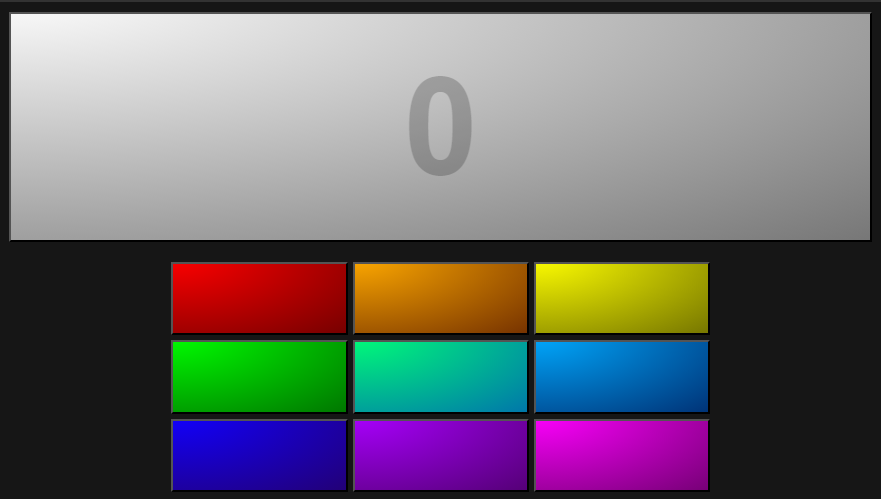
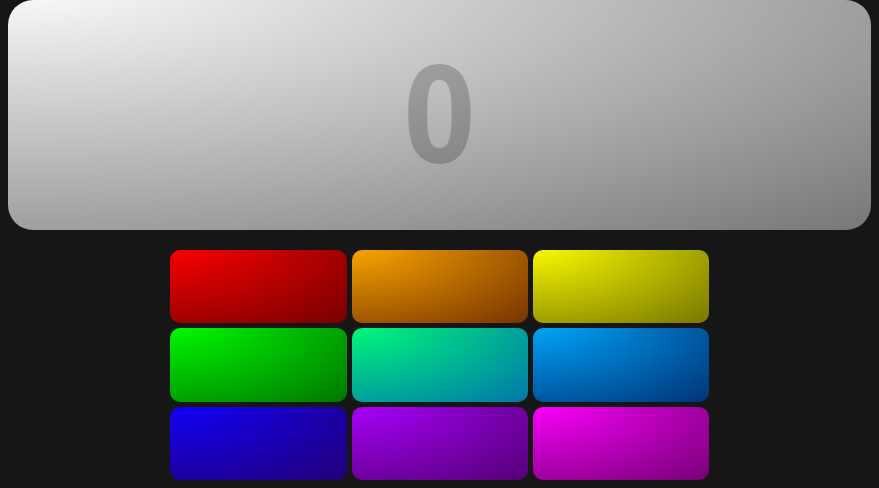
mejorar portada valsimon dice (otra foto + ahora muestra tus records)

diff --git a/main.js b/main.js
@@ -3,10 +3,20 @@ async function loadMain(){
     if(getCookie('darkMode')=='true'){document.getElementById('darkMode').checked = true}
     else{document.getElementById('darkMode').checked = false}
     refreshDarkMode()
-    flipSvg('infoSvg',-90);
 
+    //dar la vuelta al svg de info
+    flipSvg('infoSvg',-90);
+    
+    
+    //poner records
+    document.getElementById("RecordValsimonDice").innerHTML = (""
+        + " R4: "+checkEmptyText(getCookie("record4"), 0)
+        + " R6: "+checkEmptyText(getCookie("record6"), 0)
+        + " R9: "+checkEmptyText(getCookie("record9"), 0));
+    
     await sleep(1) //esperar 1ms
     
+
     //añadir transiciones a dichas cosas
     document.documentElement.style.setProperty('--CeroCincoSecs', '0.5s');
     console.log("index cargado")

diff --git a/main.css b/main.css
@@ -119,15 +119,34 @@ body .lista .juego{
 body .lista .juego p{
     background: linear-gradient(#00000000,var(--DarkMode-BG2));
     color: var(--DarkMode-TXT);
+    font-weight: bolder;
+    font-size: large;
+    
     position: absolute;
     top: 80%;
     bottom: 0%;
     left: 0%;
     right: 0%;
     padding-top: 10px;
-    
+}
+body .lista .juego .record{
+    background: linear-gradient(var(--DarkMode-BG2),#0000);
+    color: var(--DarkMode-TXT);
     font-weight: bolder;
     font-size: large;
+
+    transition: ease var(--CeroCincoSecs);
+    overflow: hidden;
+
+    position: absolute;
+    top: 0%;
+    bottom: 100%;
+    left: -10%;
+    right: -10%;
+}
+body .lista .juego:hover .record{
+    top: 0%;
+    bottom: 80%;
 }
 body .lista .juego img{
     height: 100%;

diff --git a/index.html b/index.html
@@ -52,6 +52,7 @@
         <button class="juego" onclick="location.href='/Juegos/Valsimon_dice/'">
             <img src="/Juegos/Valsimon_dice/portada.png" alt="">
             <p>Valsimon Dice</p>
+            <p class="record" id="RecordValsimonDice"></p>
         </button>
     </div>
     <div class="lista">
